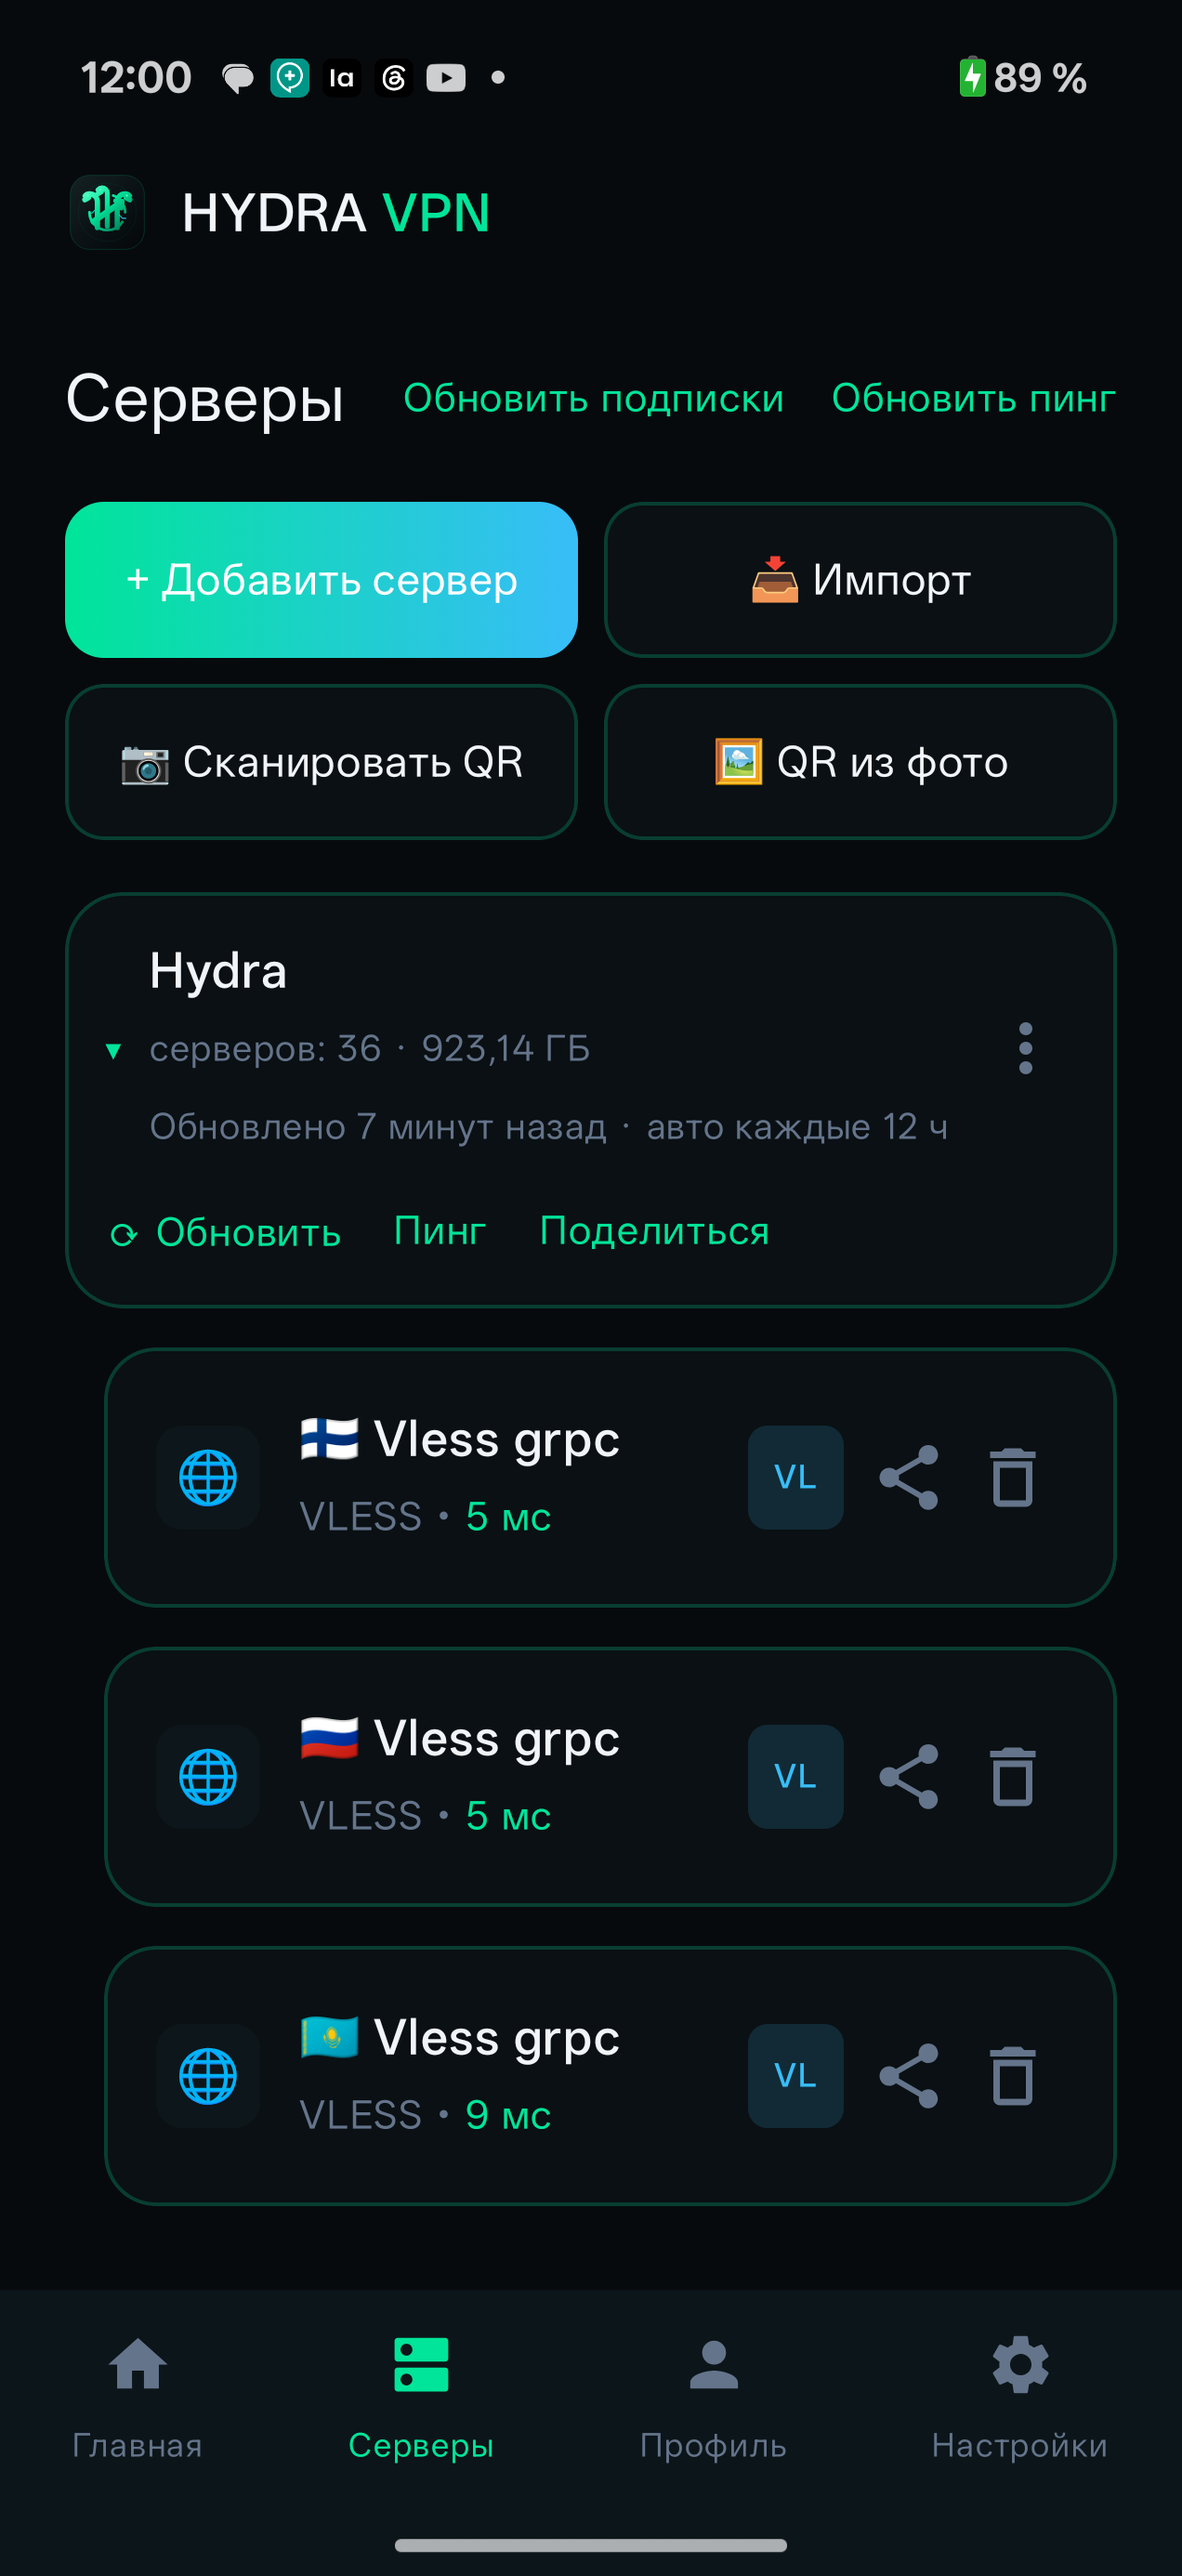
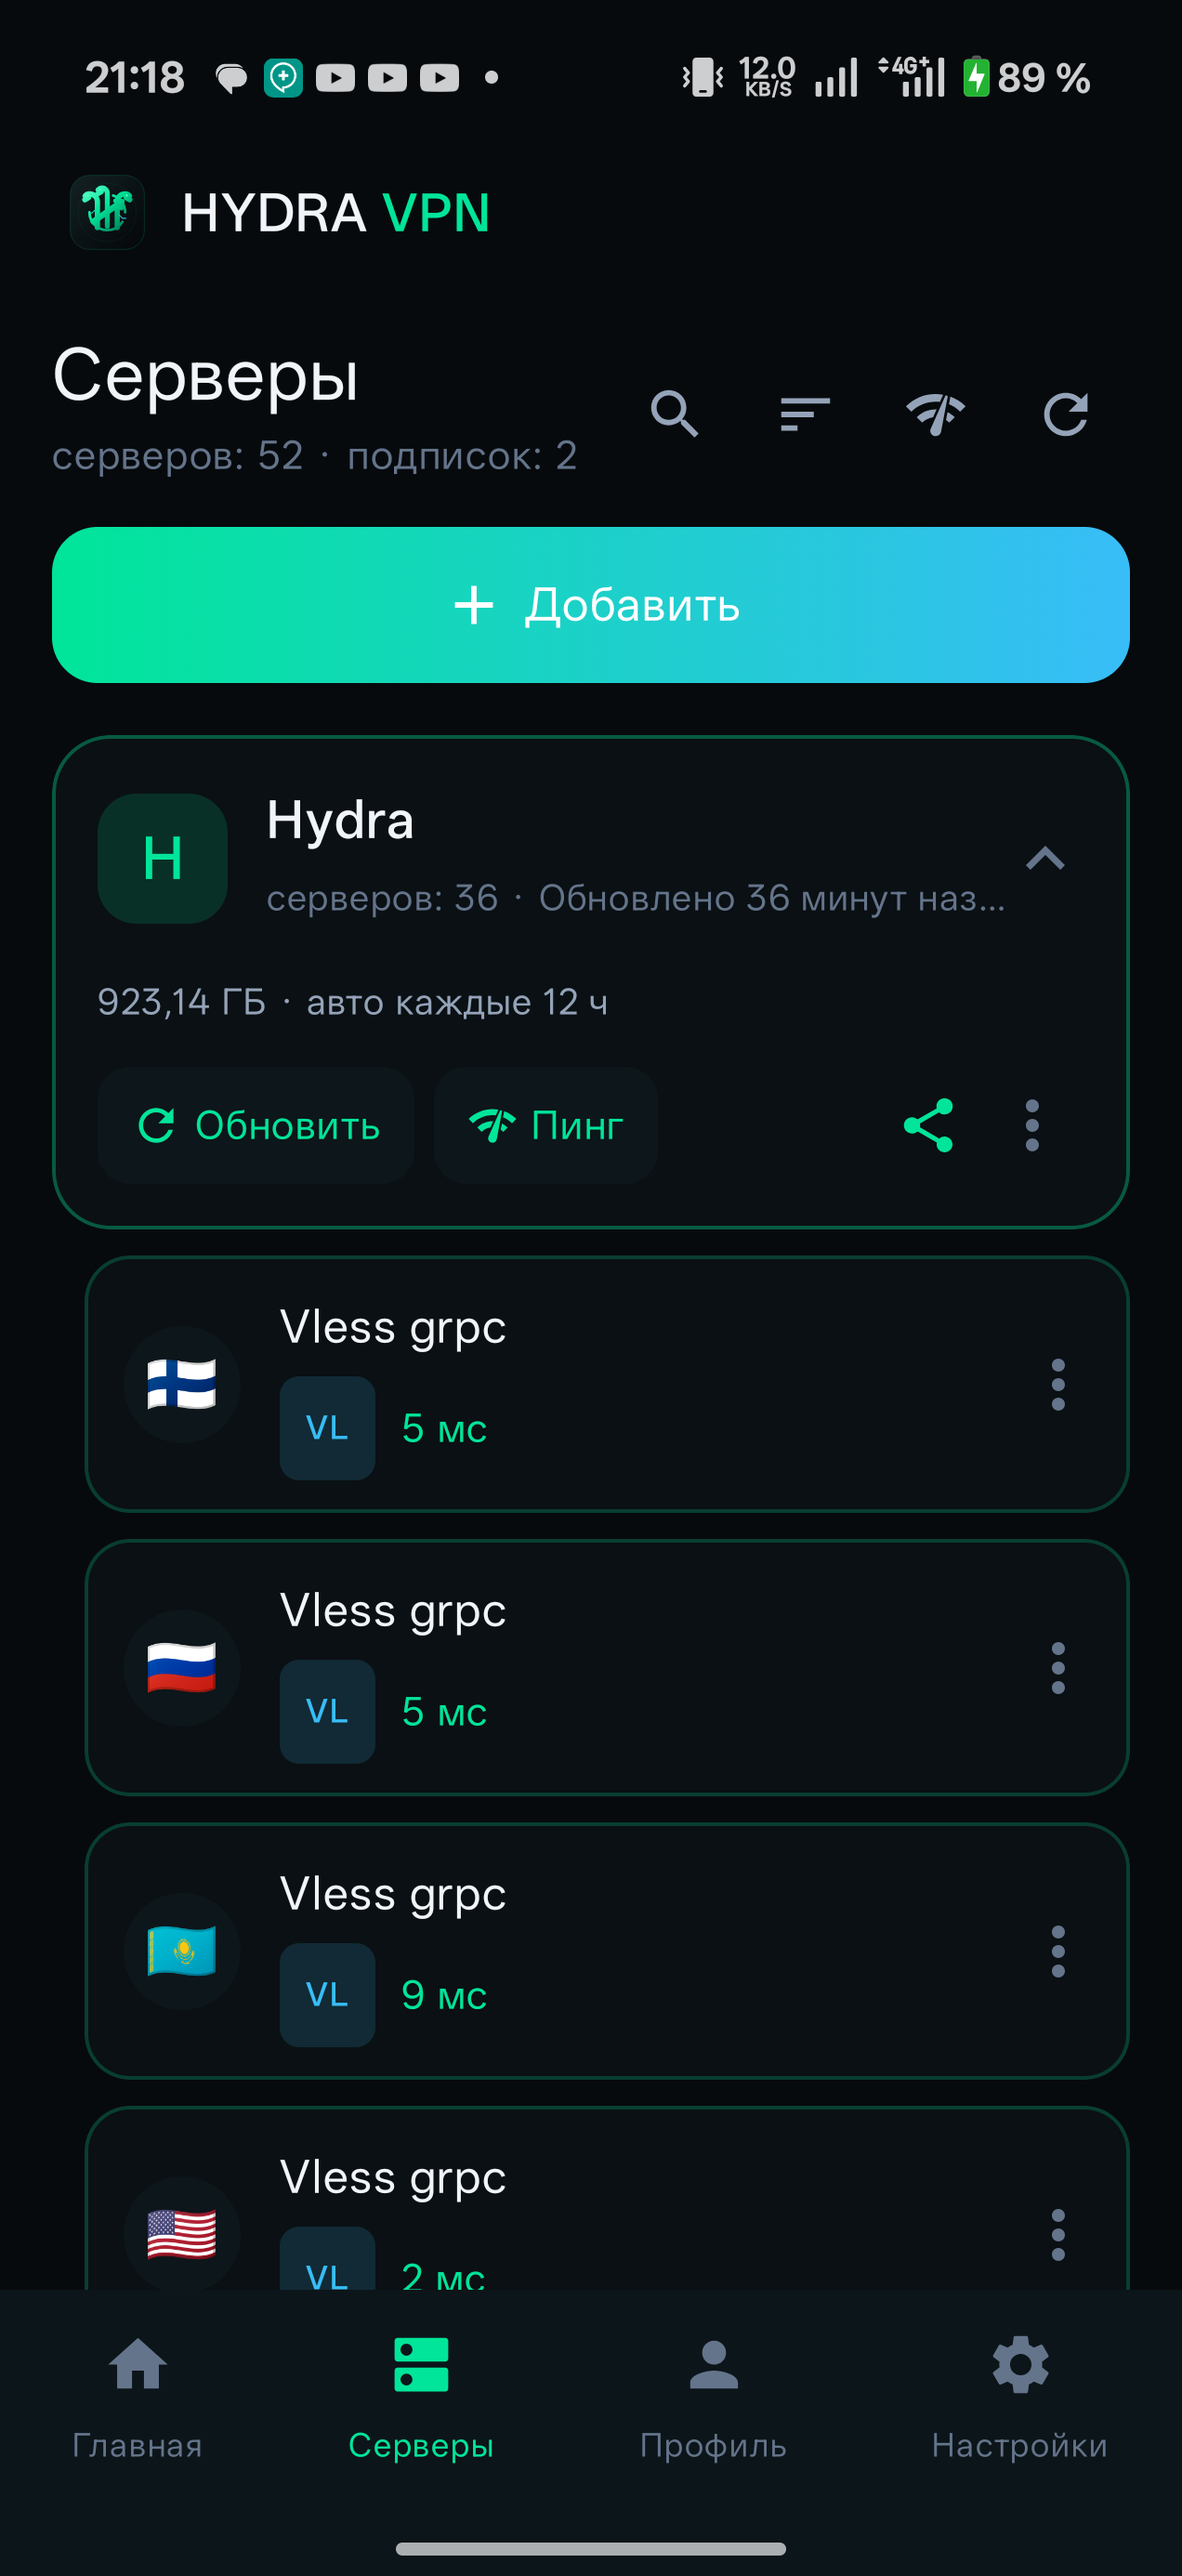
fix: вёрстка карточки подписки, скриншоты 0.6.22 (0.6.22.1)

diff --git a/app/src/main/java/ru/gidravpn/hydra/ui/screens/ServersScreen.kt b/app/src/main/java/ru/gidravpn/hydra/ui/screens/ServersScreen.kt
@@ -370,7 +370,7 @@ private fun SubscriptionCard(
         }
 
         // Трафик и срок — если панель их сообщила.
-        if (sub.totalBytes > 0 || sub.usedBytes > 0 || sub.expireAt > 0) {
+        if (sub.totalBytes > 0 || sub.usedBytes > 0 || sub.expireAt > 0 || sub.autoUpdate) {
             if (sub.totalBytes > 0) {
                 LinearProgressIndicator(
                     progress = { (sub.usedBytes.toFloat() / sub.totalBytes).coerceIn(0f, 1f) },
@@ -385,7 +385,10 @@ private fun SubscriptionCard(
                     sub.usedBytes > 0 -> humanBytes(sub.usedBytes)
                     else -> ""
                 }
-                Text(traffic, color = TextSecondary, fontSize = 11.sp, modifier = Modifier.weight(1f))
+                val auto = if (sub.autoUpdate) stringResource(R.string.sub_auto_every, sub.autoUpdateHours) else ""
+                Text(listOf(traffic, auto).filter { it.isNotEmpty() }.joinToString(" · "),
+                    color = TextSecondary, fontSize = 11.sp, maxLines = 1, overflow = TextOverflow.Ellipsis,
+                    modifier = Modifier.weight(1f))
                 if (sub.expireAt > 0) Text(stringResource(R.string.sub_until,
                     java.text.DateFormat.getDateInstance(java.text.DateFormat.MEDIUM).format(java.util.Date(sub.expireAt * 1000))),
                     color = TextSecondary, fontSize = 11.sp)
@@ -398,10 +401,10 @@ private fun SubscriptionCard(
                 enabled = !refreshing, onClick = onRefresh)
             Spacer(Modifier.width(6.dp))
             ActionChip(Icons.Filled.NetworkCheck, stringResource(R.string.sub_ping), onClick = onPing)
-            Spacer(Modifier.width(6.dp))
-            ActionChip(Icons.Filled.Share, stringResource(R.string.share_action), onClick = onShare)
             Spacer(Modifier.weight(1f))
-            if (sub.autoUpdate) Text(stringResource(R.string.sub_auto_every, sub.autoUpdateHours), color = TextMuted, fontSize = 10.sp)
+            IconButton(onClick = onShare, modifier = Modifier.size(32.dp)) {
+                Icon(Icons.Filled.Share, stringResource(R.string.share_action), tint = AccentCyan, modifier = Modifier.size(20.dp))
+            }
             Box {
                 IconButton(onClick = { menu = true }, modifier = Modifier.size(32.dp)) {
                     Icon(Icons.Filled.MoreVert, null, tint = TextMuted)

diff --git a/README.md b/README.md
@@ -4,7 +4,7 @@
 
 - Пакет / appId: `ru.gidravpn.hydra` · Лицензия: **GPL-3.0**
 - Сайт: https://gidravpn.ru · Telegram: https://t.me/+WWJFBZVhxBs4ZmNi
-- Статус: **0.6.22**
+- Статус: **0.6.22.1**
 
 ## Скриншоты
 
@@ -14,9 +14,9 @@
 |:---:|:---:|:---:|
 | <img src="docs/screenshots/main.png" width="250"> | <img src="docs/screenshots/servers.png" width="250"> | <img src="docs/screenshots/settings.png" width="250"> |
 
-| Раздельное туннелирование | Хотспот-прокси |
-|:---:|:---:|
-| <img src="docs/screenshots/split.png" width="250"> | <img src="docs/screenshots/hotspot.png" width="250"> |
+| Меню «Добавить» | Ядра (Туннель) | Раздельное туннелирование |
+|:---:|:---:|:---:|
+| <img src="docs/screenshots/add.png" width="250"> | <img src="docs/screenshots/tunnel.png" width="250"> | <img src="docs/screenshots/split.png" width="250"> |
 
 ---
 
@@ -120,7 +120,7 @@ UI (Compose) → MainViewModel → ServerRepository (Room + подписки)
 - [docs/SECURITY.md](docs/SECURITY.md) — политика безопасности
 - [docs/CONTRIBUTING.md](docs/CONTRIBUTING.md) — как контрибьютить
 - [docs/ECOSYSTEM.md](docs/ECOSYSTEM.md) — olcRTC / OpenFlux / snolc / AmneziaWG: апстримы, статус, клиенты
-- [CHANGELOG.md](CHANGELOG.md) — детальный лог 0.1.0 → 0.6.22
+- [CHANGELOG.md](CHANGELOG.md) — детальный лог 0.1.0 → 0.6.22.1
 
 ## Лицензия
 

diff --git a/docs/ROADMAP.md b/docs/ROADMAP.md
@@ -21,7 +21,7 @@ CHANGELOG, пока это правда.
 | 0.6.19 | Нативные ядра: AmneziaWG и olcRTC собраны и подключены; WDTT не берём; «Поделиться» ссылкой+QR | выпущено |
 | 0.6.20 | Экосистема olcRTC/OpenFlux: OpenFlux подключён, база актуализирована (docs/ECOSYSTEM.md), WDTT не берём | выпущено |
 | 0.6.21 | Подписки: HWID, название от панели, обновление/автообновление, группировка со спойлером, синхронизация; Room-миграции вместо стирания БД | выпущено, проверено на устройстве (0.6.21.1) |
-| 0.6.22 | Тумблеры ядер, AmneziaWG 1.0–3.x, новый экран «Серверы» | сделано |
+| 0.6.22 | Тумблеры ядер, AmneziaWG 1.0–3.x, новый экран «Серверы» | выпущено, проверено на устройстве (0.6.22.1) |
 | 0.6.23 | On-device проверка SSTP/L2TP на живом сервере (TODO №2); IP/домен split для AWG и SSTP/L2TP (TODO №10) | план, нужен сервер |
 | 0.7.0 | Интеграция с проектом Hydra VPN (аккаунт, выдача подписок, статус) | план, нужны уточнения |
 | Фаза 8 | Android: что ещё нужно на будущее | план |

diff --git a/CHANGELOG.md b/CHANGELOG.md
@@ -1,5 +1,18 @@
 # Changelog
 
+## [0.6.22.1] — поправка вёрстки карточки подписки, проверка 0.6.22 на телефоне
+
+Проверено на реальном телефоне (OnePlus CPH2747, Android 16): новый экран «Серверы» (52 сервера,
+2 подписки), меню «Добавить», экран «Туннель» с тумблерами ядер — запуск без падений.
+
+### Исправлено
+- В карточке подписки надпись «авто каждые 12 ч» стояла в ряду кнопок и сжималась в столбик по
+  букве, вытесняя меню «⋮». Теперь она в строке с трафиком, а «Поделиться» — иконкой рядом с меню.
+
+### Документация
+- В README обновлены скриншоты: новый экран «Серверы», меню «Добавить», «Туннель» с ядрами.
+
+
 ## [0.6.22] — тумблеры ядер, AmneziaWG 1.0–3.x, новый экран «Серверы»
 
 Собрано, юнит-тесты проходят (в т.ч. новые: выбор ядра, AmneziaWG 3.x). APK установлен на

diff --git a/docs/HANDOFF.md b/docs/HANDOFF.md
@@ -11,7 +11,7 @@
 - Стек: Kotlin + Jetpack Compose, minSdk 26, compileSdk 35
 - Лицензия: **GPL-3.0** (`LICENSE`), сторонние компоненты — `THIRD_PARTY_NOTICES.md`
 - Сайт: https://gidravpn.ru · Telegram: https://t.me/+WWJFBZVhxBs4ZmNi
-- Текущая версия: **0.6.22** (`app/build.gradle.kts` → `versionName`)
+- Текущая версия: **0.6.22.1** (`app/build.gradle.kts` → `versionName`)
 - Флейворы сборки: `stub` (симуляция, без нативных `.aar`, собирается и в CI) и
   `native` (реальные ядра, требует `.aar`/`.so`).
 
